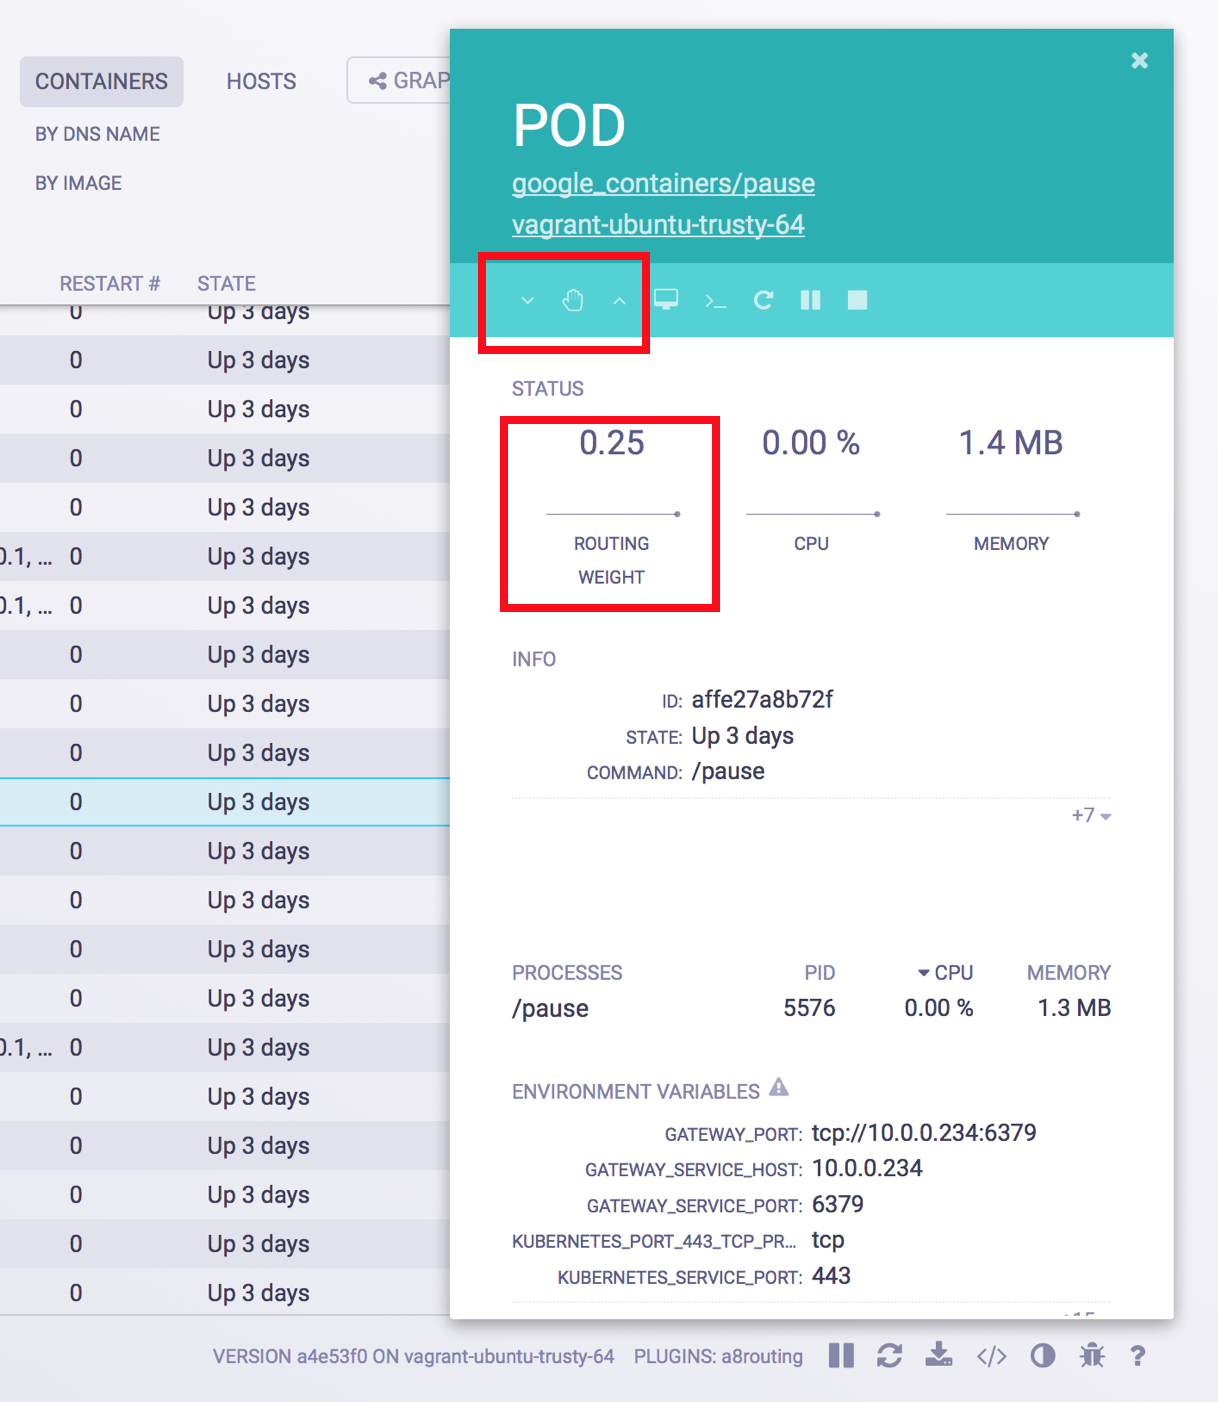
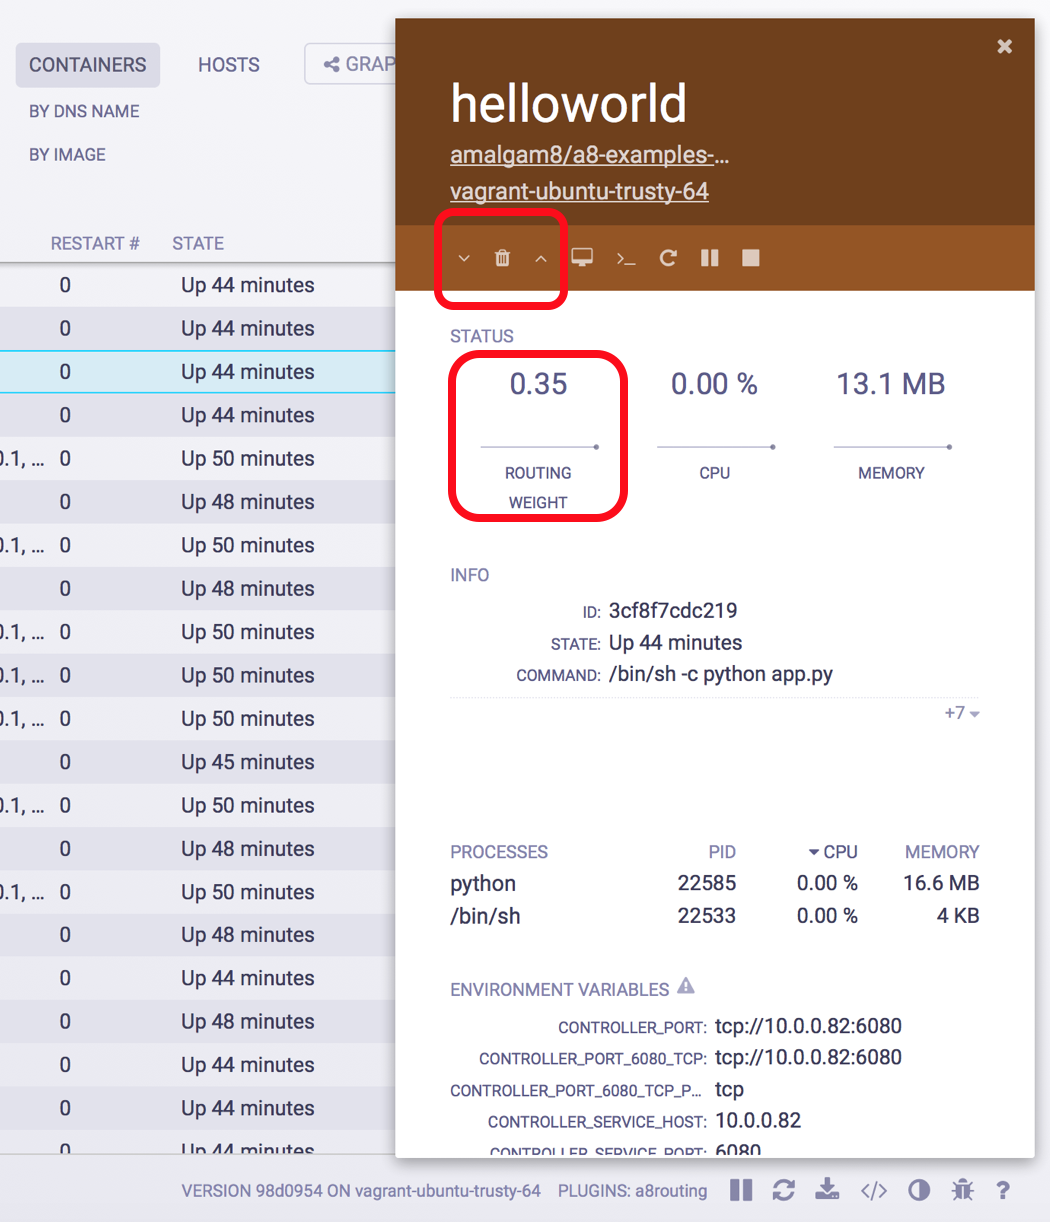
updated container screenshot and updated README

diff --git a/a8-route-control/README.md b/a8-route-control/README.md
@@ -18,7 +18,7 @@ The routing weight is shown under status in a field named **Routing Weight**.
 The Route Control plugin provides a simple interface to change the value of the routing weight (arrow buttons), or to clear the routing rules for the service.
 
 The *arrow* buttons control the routing weight value, in increments/decrements of 0.1  
-The *hand* button clears all routing rules.
+The *trash can* button clears all routing rules.
 
 ## Prerequisites
 
